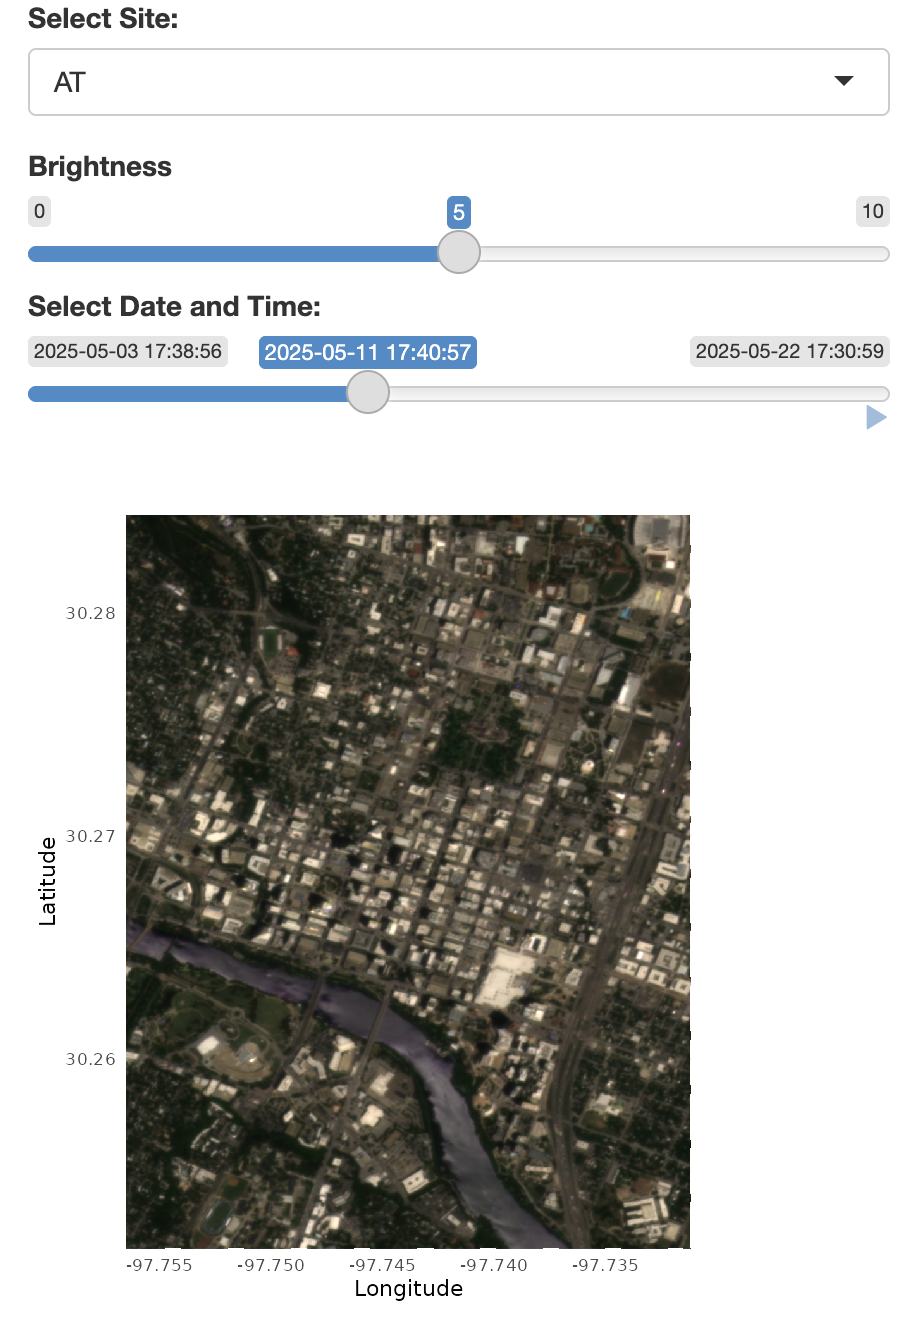
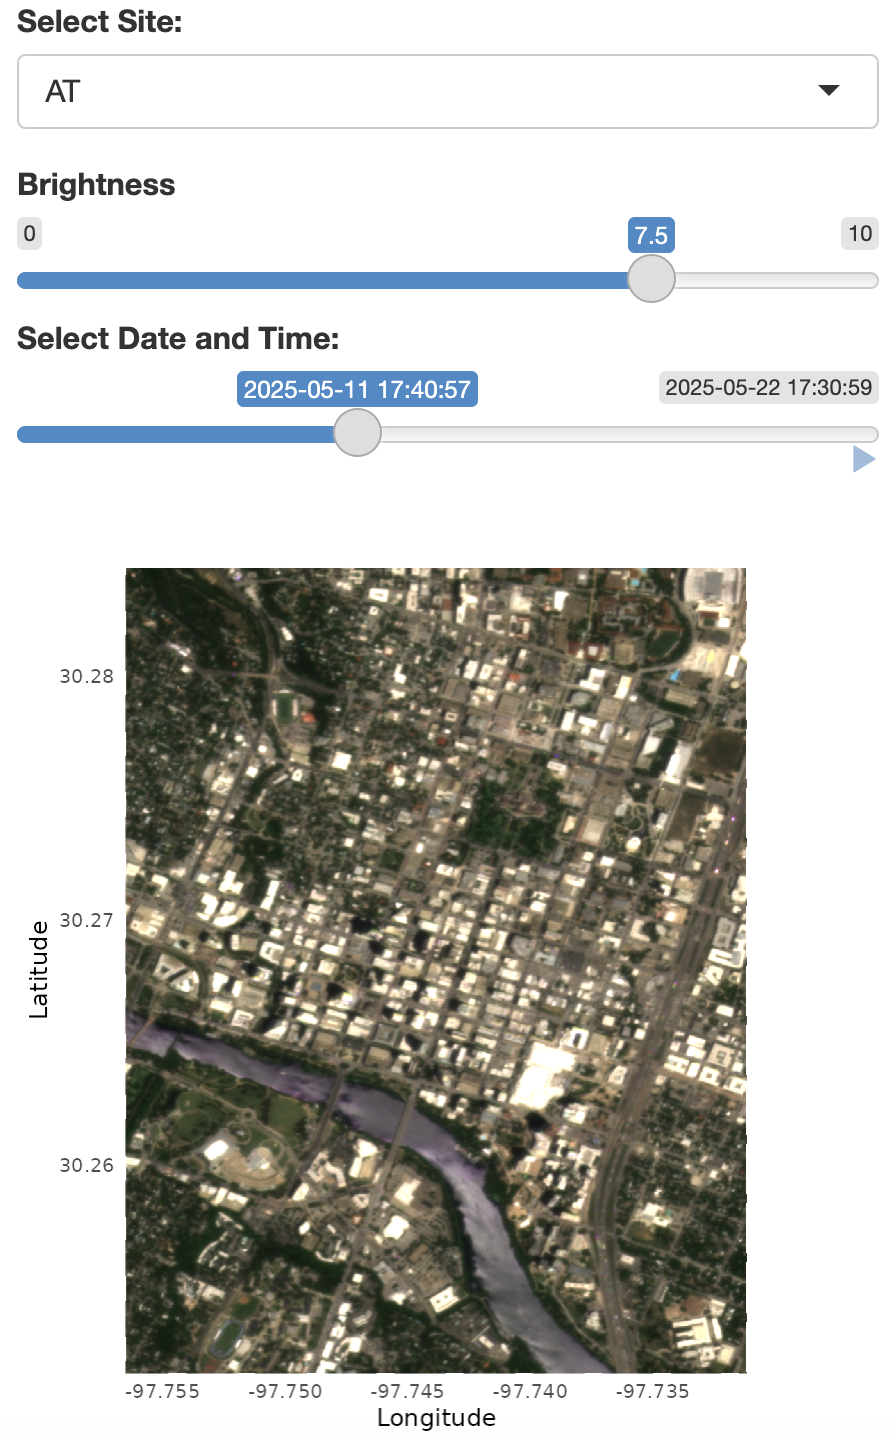
author, Fig1

diff --git a/paper.md b/paper.md
@@ -12,7 +12,7 @@ authors:
     orcid: 0000-0003-3660-3797
     affiliation: "1, 2"
   - name: Alexandre R. Bevington
-    orcid: 0000-0003-1587-3317
+    orcid: 0000-0002-9249-4444
     affiliation: "3, 4"
   - name: Ken Reid
     orcid: 0000-0001-8654-2430
@@ -25,7 +25,7 @@ authors:
     affiliation: 2
   - name: Kai Zhu
     orcid: 0000-0003-1587-3317
-    affiliation: 2
+    affiliation: "2, 1"
 affiliations:
   - name: Michigan Institute for Data and AI in Society, University of Michigan, Ann Arbor, MI, USA
     index: 1
